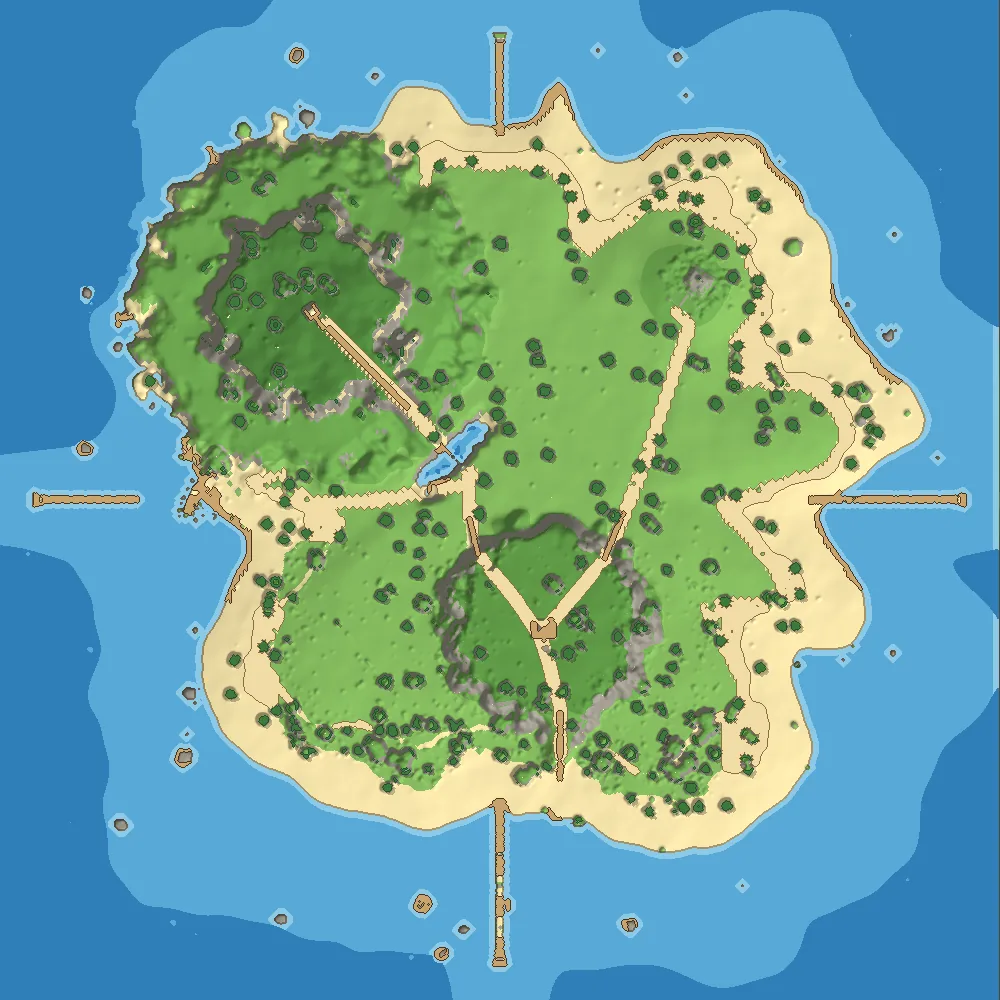
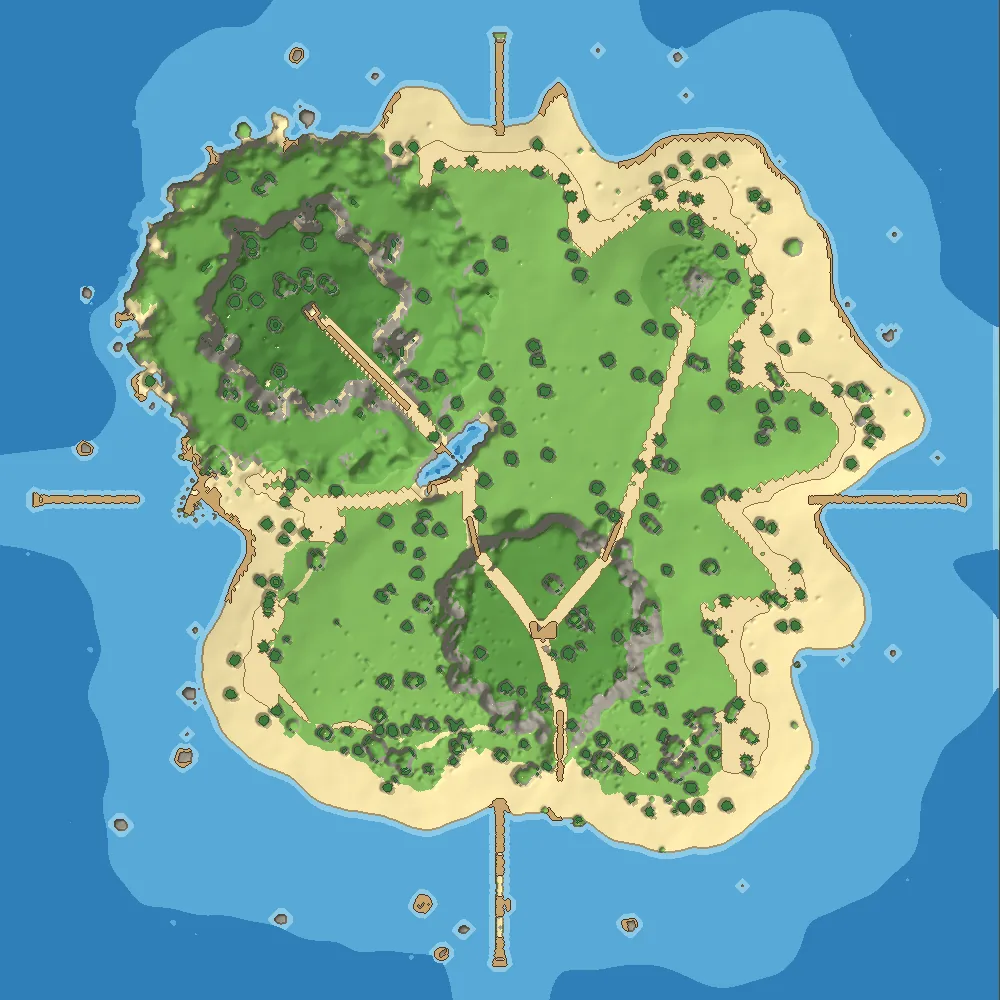
fix(maps): refresh Pine and Driftwood
Bake both stale maps from stock served ad45fbd52 in one muted browser
batch. Keep the official colour/height renderer, map palette and
stylizer. Verify the same build id before and after capture.

Publish each image with its fresh world key and decoded-pixel hash
through writeMapStamp on the clean generated ad45fbd52 tree. Signal and
Sky are already current; their images, stamps and pins stay unchanged.
Inspect the labelled Driftwood comparison and Pine before/after maps.
All browsers and the preview close before publication. No runtime code
or policy changes; preserve the foreign staged G441 metadata.

Assisted-by: Codex:gpt-6.1-sol

diff --git a/progress/shard-platform/maps-2026-10-15/batch-3/README.md b/progress/shard-platform/maps-2026-10-15/batch-3/README.md
@@ -1,0 +1,12 @@
+# World-map refresh, batch 3
+
+Driftwood and Pine were captured from one stock served `ad45fbd52` (`ad45fbd-mva3m5bn`) in a muted browser batch. The build id was verified before and after capture. The browser and preview were closed before stamp publication.
+
+The official colour/height renderer and map stylizer are unchanged. The official `writeMapStamp` writer verified each raster and its world key in the clean generated tree at the same SHA. Signal and Sky were checked and remain current; their images, stamps and product pins are unchanged.
+
+| Shard | Raster bytes | World key |
+| --- | ---: | --- |
[2 lines of base64/hex data omitted]
+
+[Labelled Driftwood before/after](driftwood-map-refresh-board.jpg). Coastline, paths, piers and vegetation remain intact. Pine’s lake, paths and forest framing were inspected against the committed map.
